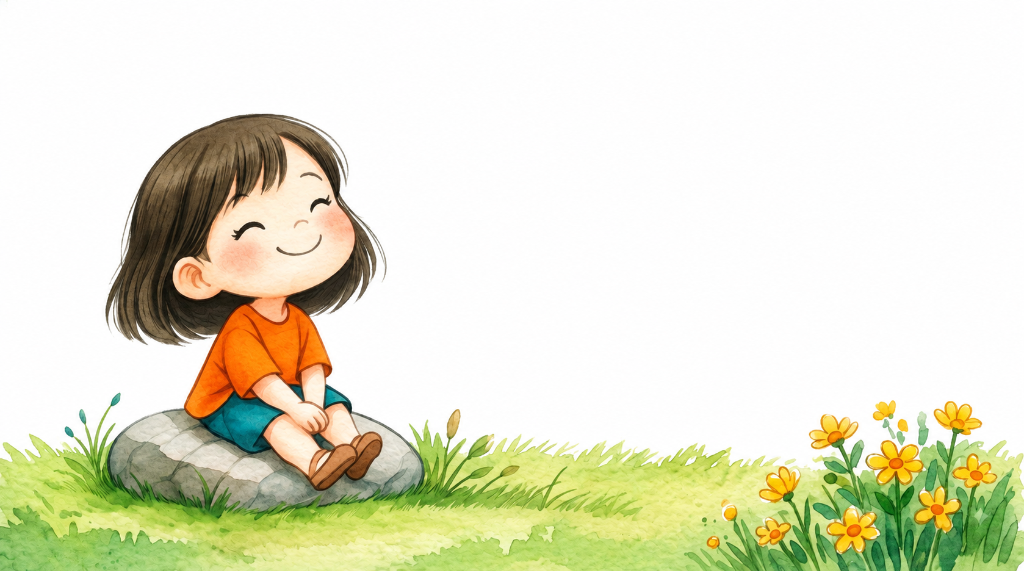
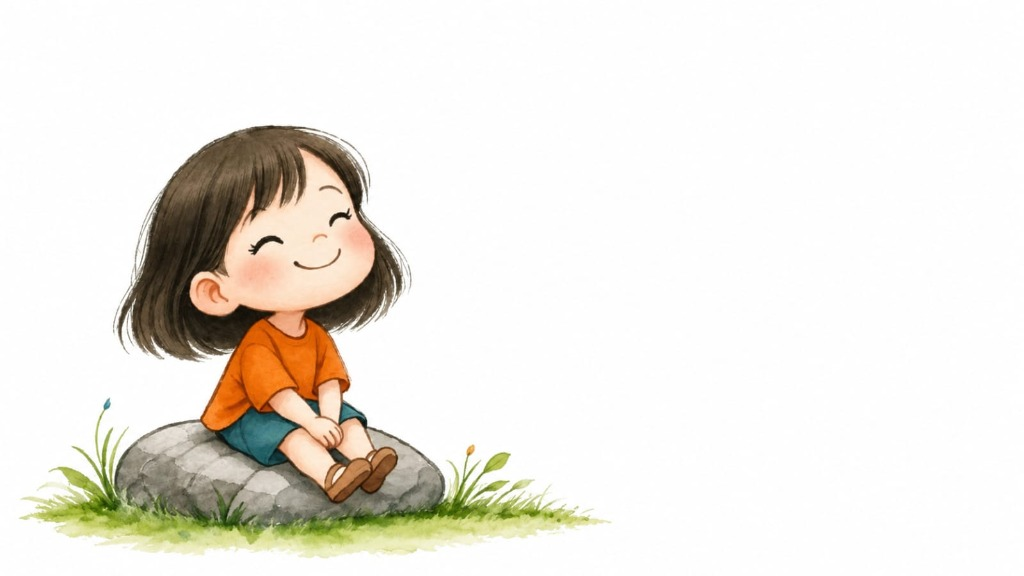
Replace About section image with new girl sitting on rock illustration

Changed region(s): [[0.0, 0.1786, 1.0, 1.0]]

diff --git a/index.html b/index.html
@@ -13,7 +13,7 @@
         href="https://fonts.googleapis.com/css2?family=Almendra:ital,wght@0,400;0,700;1,400;1,700&family=Cinzel+Decorative:wght@700;900&family=Cormorant+Garamond:ital,wght@0,500;0,600;0,700;1,500;1,600&family=Fondamento:ital@0;1&family=Outfit:wght@800;900&family=Playfair+Display:ital,wght@0,600;0,700;0,800;1,600;1,700&family=Plus+Jakarta+Sans:ital,wght@0,300..900;1,300..900&family=Space+Grotesk:wght@400;500;600;700;800&family=Caveat:wght@600;700&display=swap"
         rel="stylesheet">
 
-    <link rel="stylesheet" href="css/styles.css?v=20260911_yellow_daisies_v8">
+    <link rel="stylesheet" href="css/styles.css?v=20260911_girl_rock_v9">
 </head>
 
 <body>
@@ -81,10 +81,10 @@
 
         </section>
 
-        <!-- Chapter: About Me (Girl in Grassy Meadow Illustration Spread) -->
+        <!-- Chapter: About Me (Girl Sitting on Rock Illustration Spread) -->
         <section id="about" class="story-chapter about-storybook-section">
             <div class="about-backdrop-art">
-                <img src="assets/images/about_storybook_bg.png?v=20260911_girl_meadow" alt="Watercolor girl sitting in grassy meadow illustration" class="about-full-art-img">
+                <img src="assets/images/about_storybook_bg.png?v=20260911_girl_rock_v2" alt="Watercolor girl sitting on rock illustration" class="about-full-art-img">
             </div>
             
             <div class="about-content-overlay">
